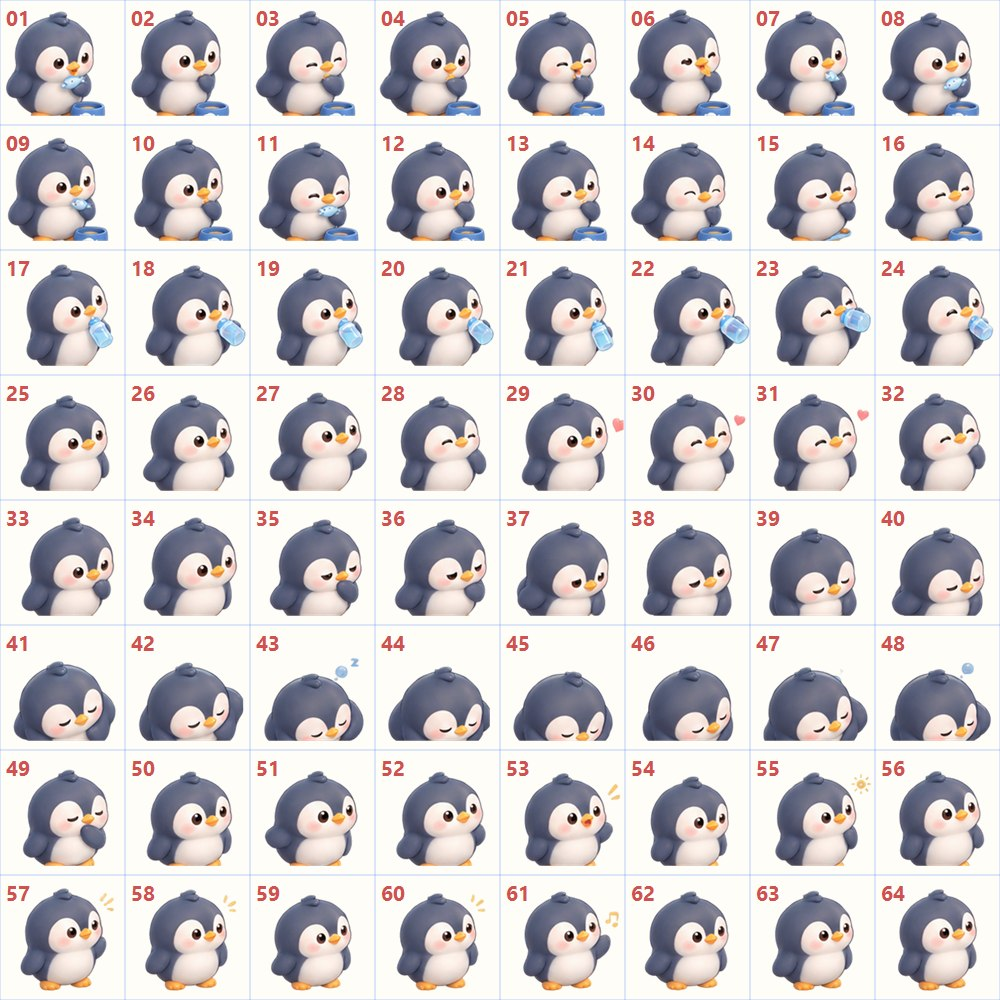
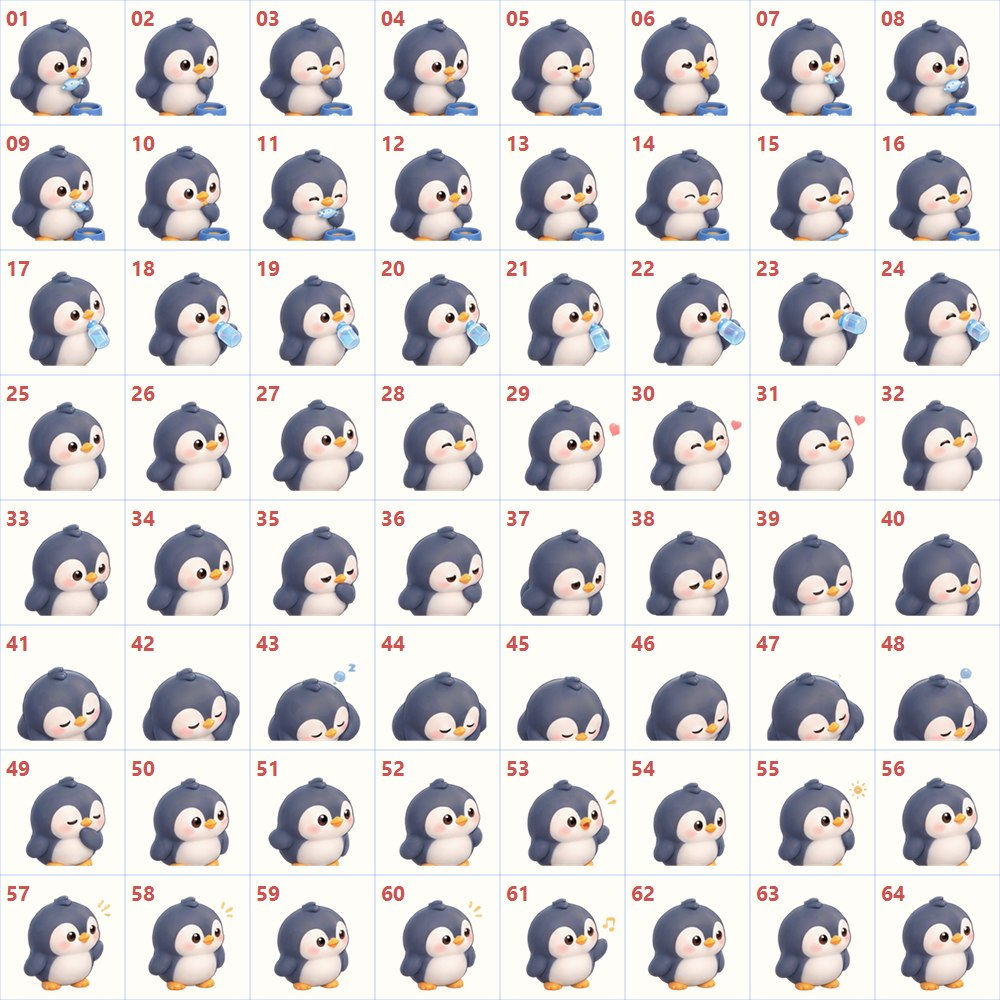
Add Pet_Special sheet and normalize per-sheet character scale (v1.2.0)
- New Pet_Special atlas: flap / shake / belly-slide / slide-stop / fall /
  get-up / stretch / hop / special-happy / special-action
  - Special state picks a random SpecialKind (Core/SpecialKind.cs)
- SpriteSlicer: add a `scale` mode; align every sheet's head width to Idle
  (Move x0.974, Action x0.993, EatSleep x0.931, Special x0.974) so switching
  sheets no longer zooms the pet in/out
- Drop the old idle Special clip; add the special clips to animations.json
- Regenerate docs previews; update README / DEVELOPMENT / CHANGELOG

diff --git a/tools/SpriteSlicer/Program.cs b/tools/SpriteSlicer/Program.cs
@@ -19,6 +19,12 @@ if (args.Length >= 2 && args[0] == "cleanup")
     return 0;
 }
 
+if (args.Length >= 3 && args[0] == "scale")
+{
+    ScaleAtlas(args[1], double.Parse(args[2], System.Globalization.CultureInfo.InvariantCulture));
+    return 0;
+}
+
 if (args.Length >= 3 && args[0] == "makeico")
 {
     MakeIco(args[1], args[2]);
@@ -329,6 +335,54 @@ static void CleanBoundaries(Bitmap bmp, int margin)
 
     Marshal.Copy(buffer, 0, data.Scan0, bytes);
     bmp.UnlockBits(data);
+}
+
+/// <summary>
+/// 按图集统一缩放（以脚部锚点 128,236 为中心），用于对齐不同图集之间的角色大小。
+/// AI 生成的不同图集常整体大小不一，切换图集时会“放大/缩小”。
+/// </summary>
+static void ScaleAtlas(string path, double factor)
+{
+    string tmp = path + ".tmp.png";
+    using (var src = new Bitmap(path))
+    using (var outBmp = new Bitmap(src.Width, src.Height, PixelFormat.Format32bppArgb))
+    {
+        for (int r = 0; r < Grid; r++)
+        {
+            for (int c = 0; c < Grid; c++)
+            {
+                int ox = c * Cell, oy = r * Cell;
+
+                using var cell = new Bitmap(Cell, Cell, PixelFormat.Format32bppArgb);
+                using (var cg = Graphics.FromImage(cell))
+                {
+                    cg.CompositingMode = CompositingMode.SourceCopy;
+                    cg.DrawImage(src,
+                        new Rectangle(0, 0, Cell, Cell),
+                        new Rectangle(ox, oy, Cell, Cell),
+                        GraphicsUnit.Pixel);
+                }
+
+                using var g = Graphics.FromImage(outBmp);
+                g.CompositingMode = CompositingMode.SourceOver;
+                g.InterpolationMode = InterpolationMode.HighQualityBicubic;
+                g.PixelOffsetMode = PixelOffsetMode.HighQuality;
+                g.SmoothingMode = SmoothingMode.HighQuality;
+
+                // 以锚点为中心缩放该格
+                g.TranslateTransform(ox + 128, oy + 236);
+                g.ScaleTransform((float)factor, (float)factor);
+                g.TranslateTransform(-(ox + 128), -(oy + 236));
+                g.DrawImage(cell, ox, oy);
+            }
+        }
+
+        outBmp.Save(tmp, ImageFormat.Png);
+    }
+
+    File.Delete(path);
+    File.Move(tmp, path);
+    Console.WriteLine($"scaled x{factor:F4}: {path}");
 }
 
 static void Cleanup(string path)

diff --git a/Core/PetBehavior.cs b/Core/PetBehavior.cs
@@ -36,6 +36,9 @@ public sealed class PetBehavior
     /// <summary>当前走动的步态，供视图选择对应动画剪辑。</summary>
     public Gait Gait { get; private set; } = Gait.Walk;
 
+    /// <summary>当前特殊动作，供视图选择对应动画剪辑。</summary>
+    public SpecialKind Special { get; private set; } = SpecialKind.Flap;
+
     public event EventHandler<BehaviorState>? StateChanged;
     public event EventHandler<int>? FacingChanged;
 
@@ -248,7 +251,7 @@ public sealed class PetBehavior
                 break;
 
             case BehaviorState.Special:
-                SetState(BehaviorState.Special, 1.4, 2.4);
+                PickSpecial();
                 break;
 
             default:
@@ -317,6 +320,35 @@ public sealed class PetBehavior
         Gait.Trot => 62,
         Gait.Fast => 82,
         _ => 40
+    };
+
+    private static readonly SpecialKind[] AllSpecials =
+    {
+        SpecialKind.Flap, SpecialKind.Shake, SpecialKind.BellySlide, SpecialKind.SlideStop,
+        SpecialKind.Fall, SpecialKind.GetUp, SpecialKind.Stretch, SpecialKind.Hop,
+        SpecialKind.Happy, SpecialKind.Action
+    };
+
+    /// <summary>随机挑一个特殊动作，状态时长与该动作剪辑长度大致对齐。</summary>
+    private void PickSpecial()
+    {
+        Special = AllSpecials[_rng.Next(AllSpecials.Length)];
+        double seconds = SpecialSeconds(Special);
+        SetState(BehaviorState.Special, seconds, seconds);
+    }
+
+    private static double SpecialSeconds(SpecialKind kind) => kind switch
+    {
+        SpecialKind.Flap => 1.3,
+        SpecialKind.Shake => 0.9,
+        SpecialKind.BellySlide => 0.8,
+        SpecialKind.SlideStop => 0.5,
+        SpecialKind.Fall => 0.5,
+        SpecialKind.GetUp => 0.5,
+        SpecialKind.Stretch => 1.4,
+        SpecialKind.Hop => 0.8,
+        SpecialKind.Happy => 0.6,
+        _ => 0.6
     };
 
     private BehaviorState PickWeighted(params (BehaviorState State, double Weight)[] choices)

diff --git a/Core/AnimationClips.cs b/Core/AnimationClips.cs
@@ -50,6 +50,18 @@ public static class AnimationClips
     public const string WakeUp = "WakeUp";
     public const string AwakeIdle = "AwakeIdle";
 
+    // Special 图集（特殊动作）
+    public const string Flap = "Flap";
+    public const string Shake = "Shake";
+    public const string BellySlide = "BellySlide";
+    public const string SlideStop = "SlideStop";
+    public const string Fall = "Fall";
+    public const string GetUp = "GetUp";
+    public const string StretchLong = "StretchLong";
+    public const string Hop = "Hop";
+    public const string SpecialHappy = "SpecialHappy";
+    public const string SpecialAction = "SpecialAction";
+
     public static string ForState(BehaviorState state) => state switch
     {
         BehaviorState.Idle => Idle,
@@ -73,7 +85,7 @@ public static class AnimationClips
         BehaviorState.Groom => Groom,
         BehaviorState.Tail => Tail,
         BehaviorState.Fidget => Fidget,
-        BehaviorState.Special => Special,
+        BehaviorState.Special => SpecialAction,
         BehaviorState.Clicked => Clicked,
         BehaviorState.Shy => Shy,
         BehaviorState.Surprised => Surprised,
@@ -89,6 +101,20 @@ public static class AnimationClips
         Gait.Trot => Trot,
         Gait.Fast => MoveFast,
         _ => Walk
+    };
+
+    public static string ForSpecial(SpecialKind kind) => kind switch
+    {
+        SpecialKind.Flap => Flap,
+        SpecialKind.Shake => Shake,
+        SpecialKind.BellySlide => BellySlide,
+        SpecialKind.SlideStop => SlideStop,
+        SpecialKind.Fall => Fall,
+        SpecialKind.GetUp => GetUp,
+        SpecialKind.Stretch => StretchLong,
+        SpecialKind.Hop => Hop,
+        SpecialKind.Happy => SpecialHappy,
+        _ => SpecialAction
     };
 
     /// <summary>首选剪辑所在图集缺失时的回退顺序，最后一定落到 Idle。</summary>

diff --git a/Core/SpecialKind.cs b/Core/SpecialKind.cs
@@ -1,0 +1,35 @@
+namespace DesktopPet.Core;
+
+/// <summary>特殊动作（Pet_Special 图集）的种类。</summary>
+public enum SpecialKind
+{
+    /// <summary>扑翅。</summary>
+    Flap,
+
+    /// <summary>抖羽毛。</summary>
+    Shake,
+
+    /// <summary>肚皮滑行。</summary>
+    BellySlide,
+
+    /// <summary>滑行停止。</summary>
+    SlideStop,
+
+    /// <summary>跌倒。</summary>
+    Fall,
+
+    /// <summary>爬起。</summary>
+    GetUp,
+
+    /// <summary>伸展。</summary>
+    Stretch,
+
+    /// <summary>蹦跳。</summary>
+    Hop,
+
+    /// <summary>特殊开心。</summary>
+    Happy,
+
+    /// <summary>特殊动作。</summary>
+    Action
+}

diff --git a/Core/PetController.cs b/Core/PetController.cs
@@ -174,7 +174,11 @@ public sealed class PetController
     }
 
     private string ClipFor(BehaviorState s)
-        => s == BehaviorState.Walk
-            ? AnimationClips.ForGait(_behavior.Gait)
-            : AnimationClips.ForState(s);
+    {
+        if (s == BehaviorState.Walk)
+            return AnimationClips.ForGait(_behavior.Gait);
+        if (s == BehaviorState.Special)
+            return AnimationClips.ForSpecial(_behavior.Special);
+        return AnimationClips.ForState(s);
+    }
 }

diff --git a/docs/CHANGELOG.md b/docs/CHANGELOG.md
@@ -12,11 +12,13 @@
 
 ## [1.2.0] - 2026-09-13
 
-新增 `Pet_Action` / `Pet_EatSleep` 两套图集，补齐互动反应与吃睡动画。
+新增 `Pet_Action` / `Pet_EatSleep` / `Pet_Special` 三套图集，补齐互动反应、吃睡与特殊动作。
 
 ### 新增
 - 新图集 `Pet_Action`：被点击 / 被抚摸 / 开心 / 好奇 / 生气 / 害羞 / 惊讶 / 打招呼 / 受到惊吓 / 互动结束
 - 新图集 `Pet_EatSleep`：吃东西 / 喝水 / 吃饱开心 / 困倦 / 睡觉 / 睡醒 / 清醒待机
+- 新图集 `Pet_Special`：扑翅 / 抖羽毛 / 肚皮滑行 / 滑行停止 / 跌倒 / 爬起 / 伸展 / 蹦跳 / 特殊开心 / 特殊动作
+  - `Special` 状态随机挑一个 `SpecialKind`（`Core/SpecialKind.cs`）播放
 - 互动反馈：
   - 点击宠物 → 被点击；若正在睡觉 / 发呆则先「惊讶」
   - 抚摸 → 被抚摸 → 开心 / 害羞（饥饿 > 75 时改为生气）
@@ -33,6 +35,8 @@
 ### 修复
 - 切图工具新增**顶部杂点清理**（`RemoveTopStray`，并新增 `cleanup` 模式）：修复 AI 原图相邻行溢出，导致互动 / 吃睡动画顶部出现一截"脚"的穿模问题
 - 清理只删除「非主体连通块且触及顶部」的碎块，保留爱心 / 问号 / `Zzz` 等悬浮元素
+- 切图工具新增**按图集统一缩放**（`scale` 模式）：修复不同图集整体大小不一、切换图集时宠物"放大 / 缩小"的问题
+  - 以 `Pet_Idle` 头部宽度为基准对齐：`Pet_Move ×0.974`、`Pet_Action ×0.993`、`Pet_EatSleep ×0.931`、`Pet_Special ×0.974`
 
 ## [1.1.2] - 2026-09-12
 

diff --git a/README.md b/README.md
@@ -14,6 +14,7 @@
 - **桌面角色**：一只企鹅，无边框、透明、无任务栏按钮、可置顶、可拖动，宠物以外区域鼠标穿透
 - **自主行为**：根据时间、饥饿、心情、精力、随机概率自主选择待机 / 走动 / 张望 / 坐下 / 睡觉 / 整理羽毛 / 伸懒腰 / 扇翅膀等，不是固定时间轴循环
 - **移动表现**：走动带步态（普通 / 小步快走 / 小跑 / 快速移动），转身、停下有过渡动画；待机时会眨眼
+- **特殊动作**：扑翅 / 抖羽毛 / 肚皮滑行 / 跌倒爬起 / 伸展 / 蹦跳 / 特殊开心等
 - **状态系统**：饱食度、心情、精力、健康，随时间自然变化，永不死亡
 - **互动**：鼠标悬停宠物 → 头顶显示状态、右侧展开弧形菜单；喂食（小鱼干 / 鲜虾 / 牛奶）、摸摸、装扮、设置、隐藏
 - **互动反应**：点击（被点击 / 惊讶）、抚摸（被摸 → 开心 / 害羞）、拖动（受惊）、启动（打招呼）等表情动画
